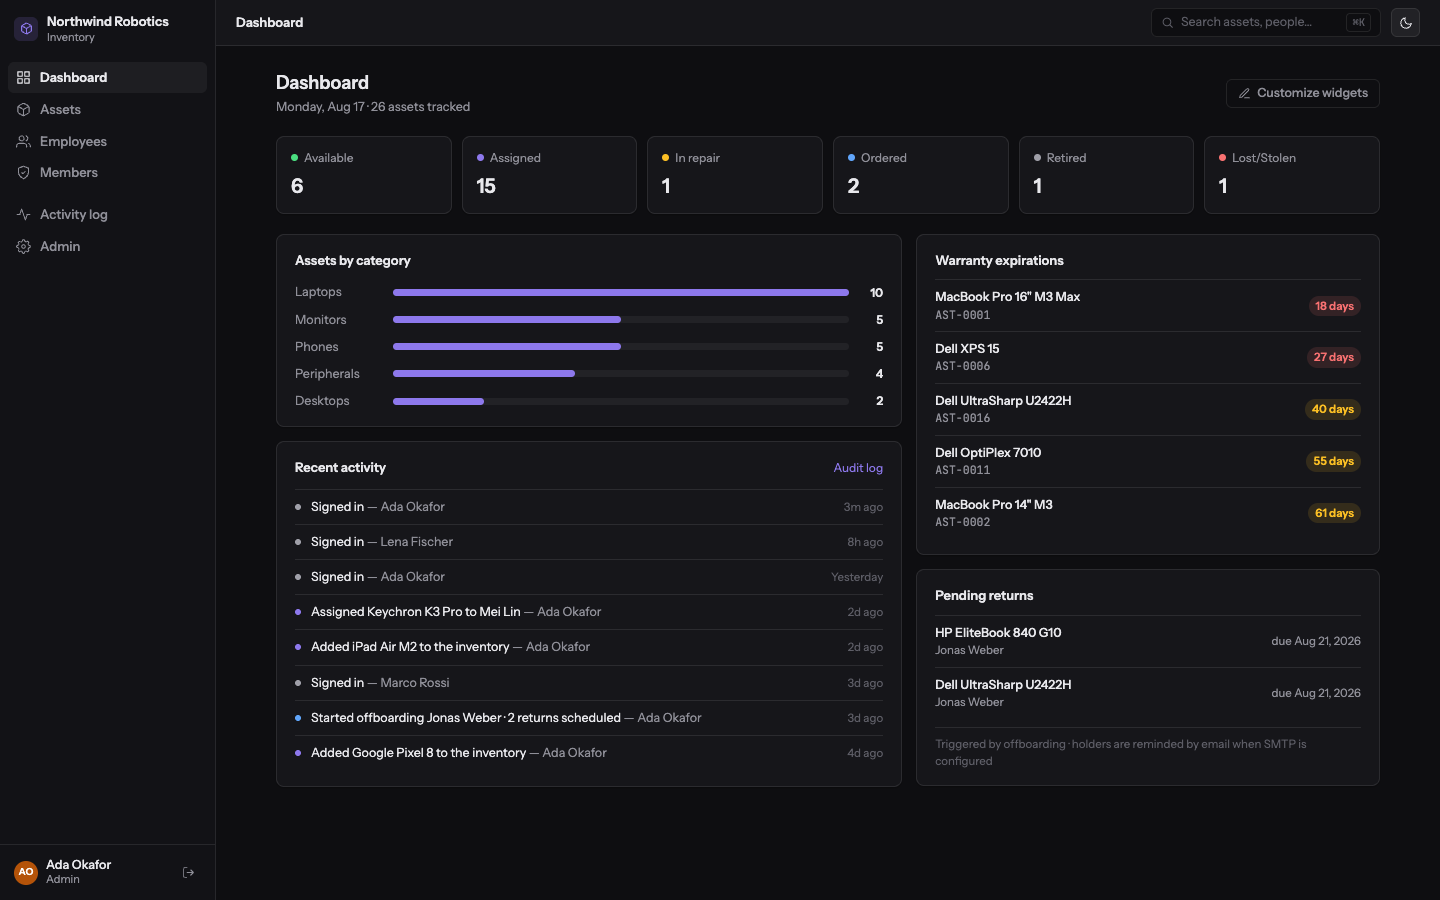
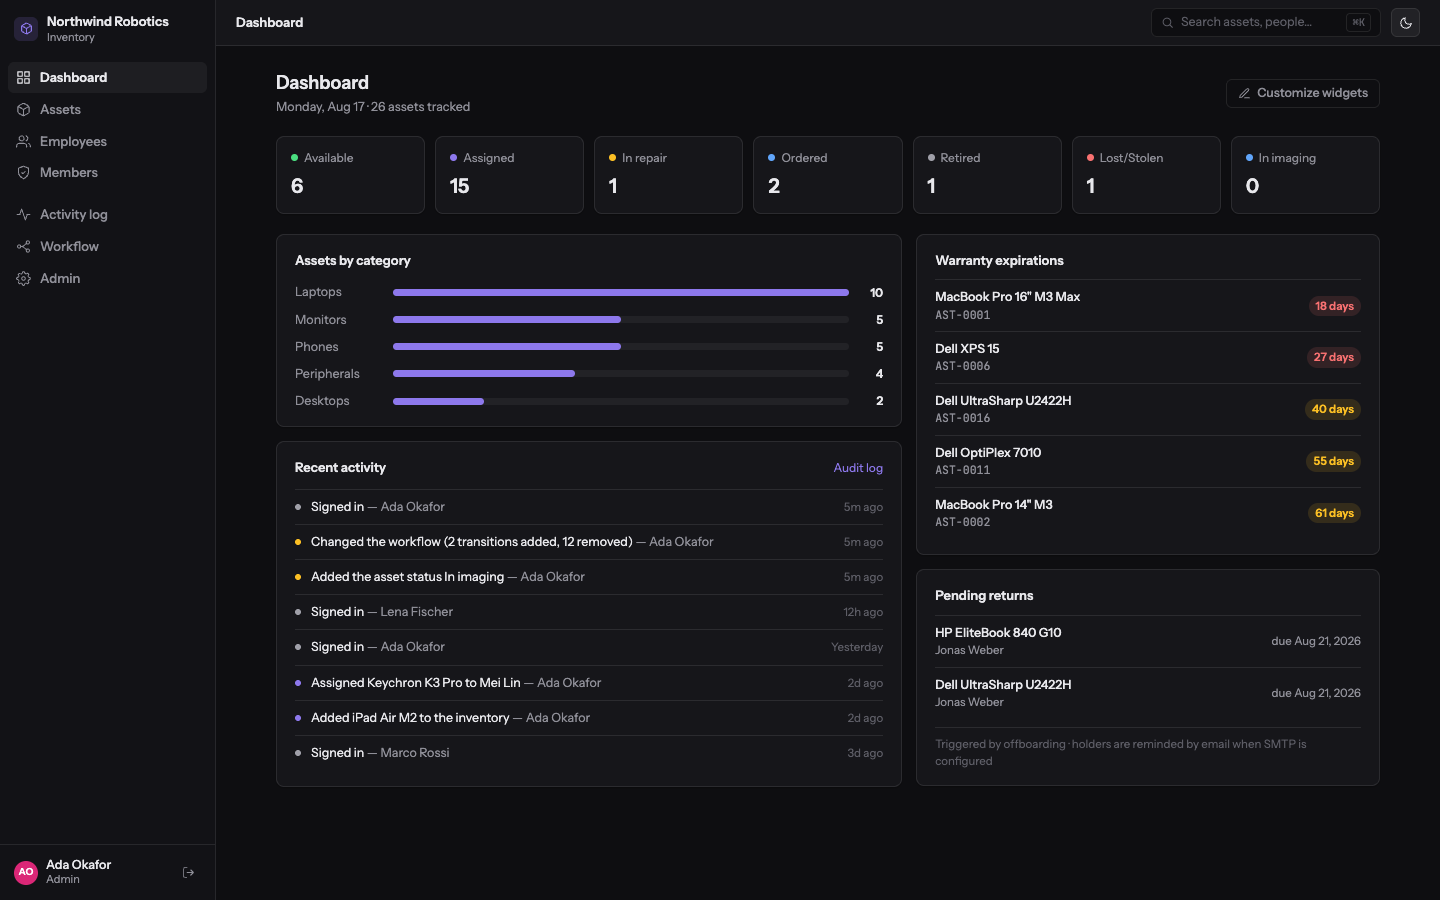
docs: show the workflow page
Two new frames from the freshly seeded demo, both 1440×900 in the light
theme like the rest of the set: the Workflow page — Northwind's seven
statuses, their two behaviour flags, the transition matrix and the
diagram drawn from it — and the Change-status modal for a laptop in
repair, offering the two moves the graph actually has.

The six existing screenshots are re-shot from the same session, because
this branch changed what they show: the sidebar has a Workflow item now,
the dashboard has a seventh status tile (the auto-fill grid takes it
without a design decision), the assets list has a seventh filter pill,
and the activity log carries the two workflow events as System rows.

diff --git a/README.md b/README.md
@@ -55,6 +55,14 @@ _The pills carry their counts, so the shape of the fleet is readable before you 
 
 _AST-0001 has had two holders and a spell on the shelf between them. The "In stock" gap is derived from the ownership rows rather than stored, which is why it cannot disagree with them._
 
+![The Workflow page: seven statuses with their colours and two behaviour toggles each, above a from-to checkbox matrix, with a node-and-arrow diagram of the same graph beside it](media/workflow.png)
+
+_The demo workspace's own workflow. Northwind added "In imaging" for machines being wiped between holders, and drew the graph so a retired device has no way back out. The diagram is fed the checkboxes rather than the saved rows, so it redraws as you tick._
+
+![The Change status modal for a laptop that is in repair, its status list open and offering only Available and Retired](media/workflow-change-status.png)
+
+_The same graph, one screen later: In repair has two edges leaving it, so those are the two moves on offer — and the only two the API would accept if you asked another way._
+
 ![The activity log: filter pills counting assets, people, auth and system events, above a table of events written as sentences](media/activity-log.png)
 
 _Every mutation, written as a sentence by the same renderer that produces the CSV export — so the screen and the file cannot drift apart._
